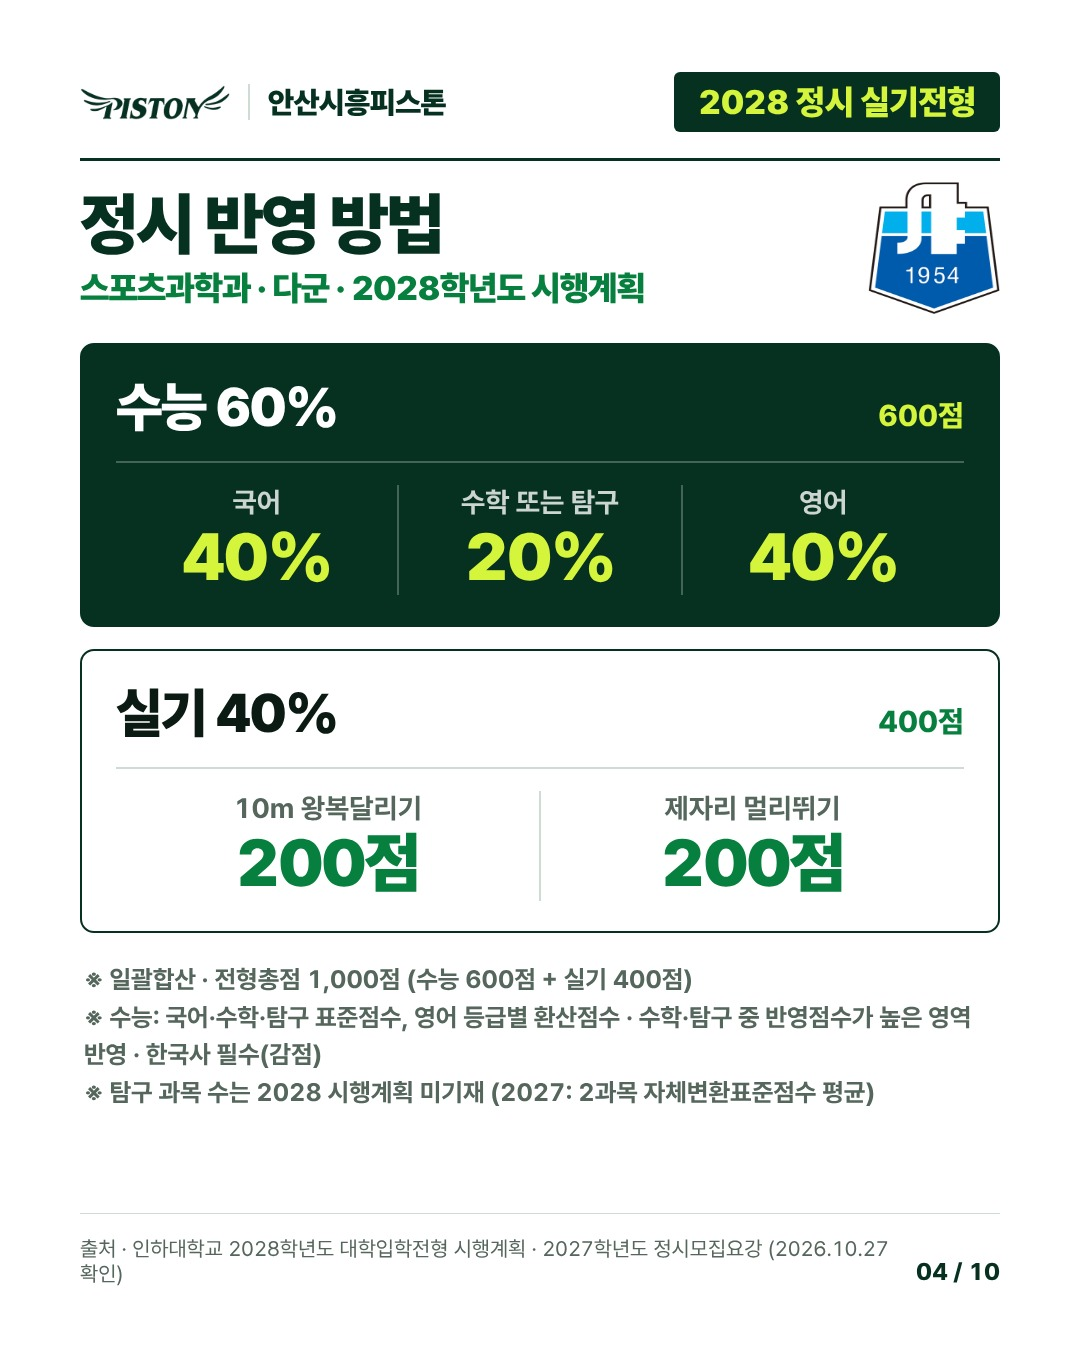
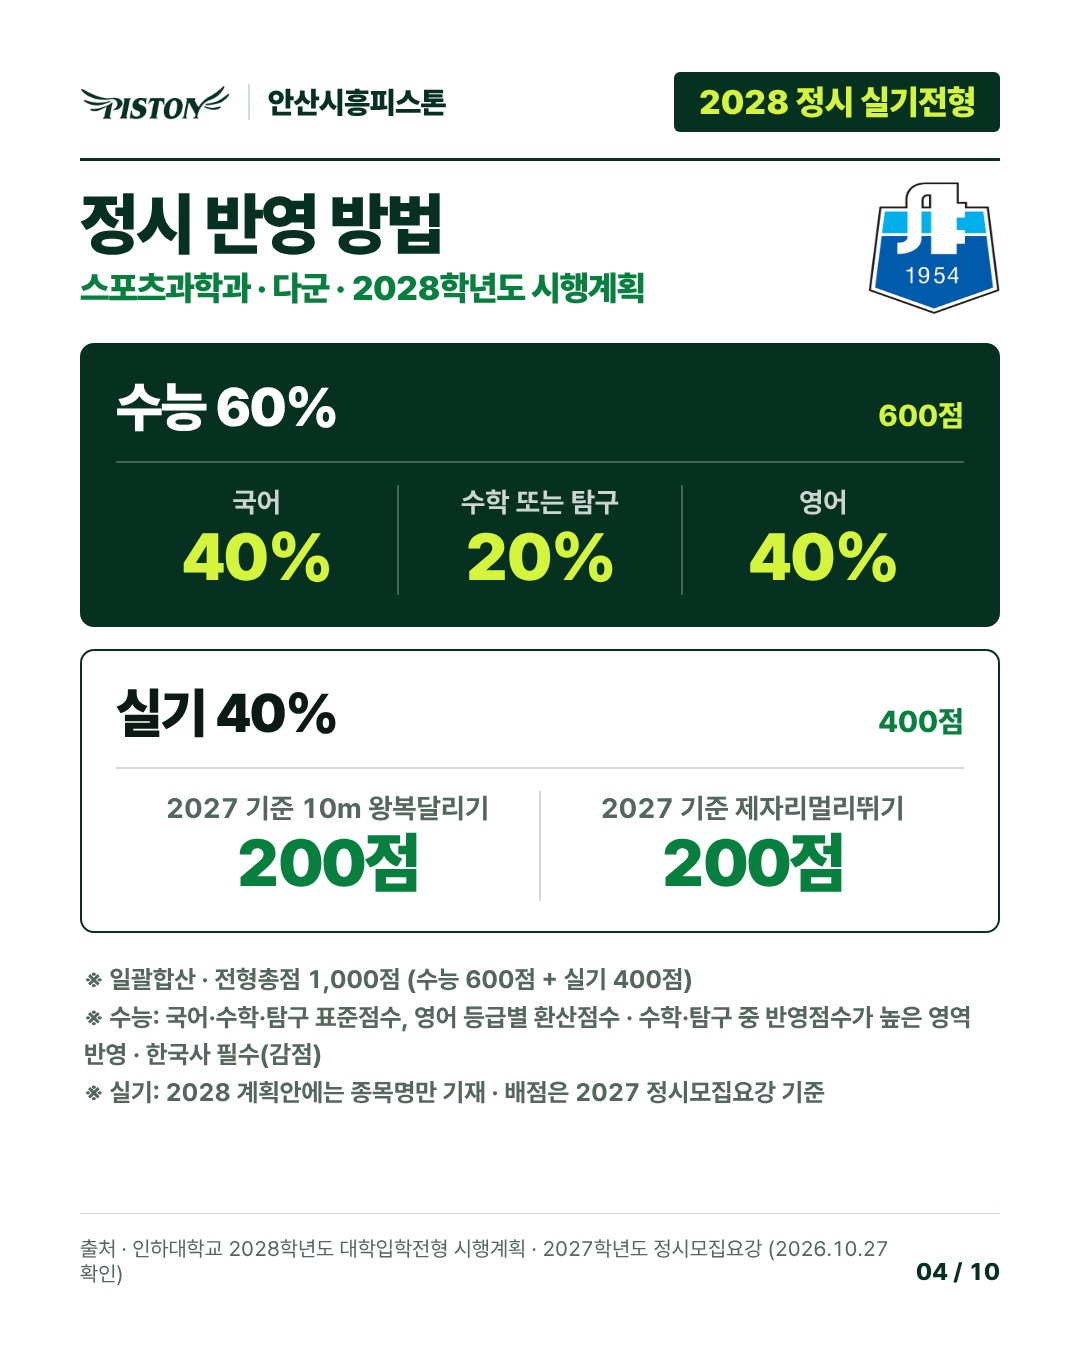
inha: 2027 기준 표기 on 실기 배점
Claude-Session: https://claude.ai/code/session_01EGTn7G8nWP1yv5M2jqmoFb

Changed region(s): [[0.1222, 0.7778, 0.7944, 0.84], [0.1528, 0.5911, 0.4583, 0.6222], [0.55, 0.5911, 0.825, 0.6222]]

diff --git a/social/out/inha-jeongsi-jeongsi/blog.md b/social/out/inha-jeongsi-jeongsi/blog.md
@@ -41,11 +41,11 @@
 | 구분 | 비율 · 점수 | 반영 내용 |
 | --- | --- | --- |
 | 수능 | 60% · 600점 | 국어 40% · 수학 또는 탐구 20% · 영어 40% |
-| 실기 | 40% · 400점 | 10m 왕복달리기 200점 · 제자리 멀리뛰기 200점 |
+| 실기 | 40% · 400점 | 2027 기준 10m 왕복달리기 200점 · 2027 기준 제자리멀리뛰기 200점 |
 
 ※ 일괄합산 · 전형총점 1,000점 (수능 600점 + 실기 400점)
 ※ 수능: 국어·수학·탐구 표준점수, 영어 등급별 환산점수 · 수학·탐구 중 반영점수가 높은 영역 반영 · 한국사 필수(감점)
-※ 탐구 과목 수는 2028 시행계획 미기재 (2027: 2과목 자체변환표준점수 평균)
+※ 실기: 2028 계획안에는 종목명만 기재 · 배점은 2027 정시모집요강 기준
 
 [이미지: post-4.jpg]
 
@@ -53,7 +53,7 @@
 | 구분 | 비율 · 점수 | 반영 내용 |
 | --- | --- | --- |
 | 수능 | 70% · 700점 | 국어 40% · 수학 또는 탐구 30% · 영어 30% |
-| 실기 | 30% · 300점 | 20m 왕복달리기 (2028 변경)::배점 미기재 · 제자리멀리뛰기 150점 |
+| 실기 | 30% · 300점 | 20m 왕복달리기 (2028 변경)::배점 미기재 · 2027 기준 제자리멀리뛰기 150점 |
 
 ※ 일괄합산 · 전형총점 1,000점 (수능 700점 + 실기 300점)
 ※ 수능: 국어·수학·탐구 표준점수, 영어 등급별 환산점수 · 수학·탐구 중 반영점수가 높은 영역 반영 · 한국사 필수(감점)
